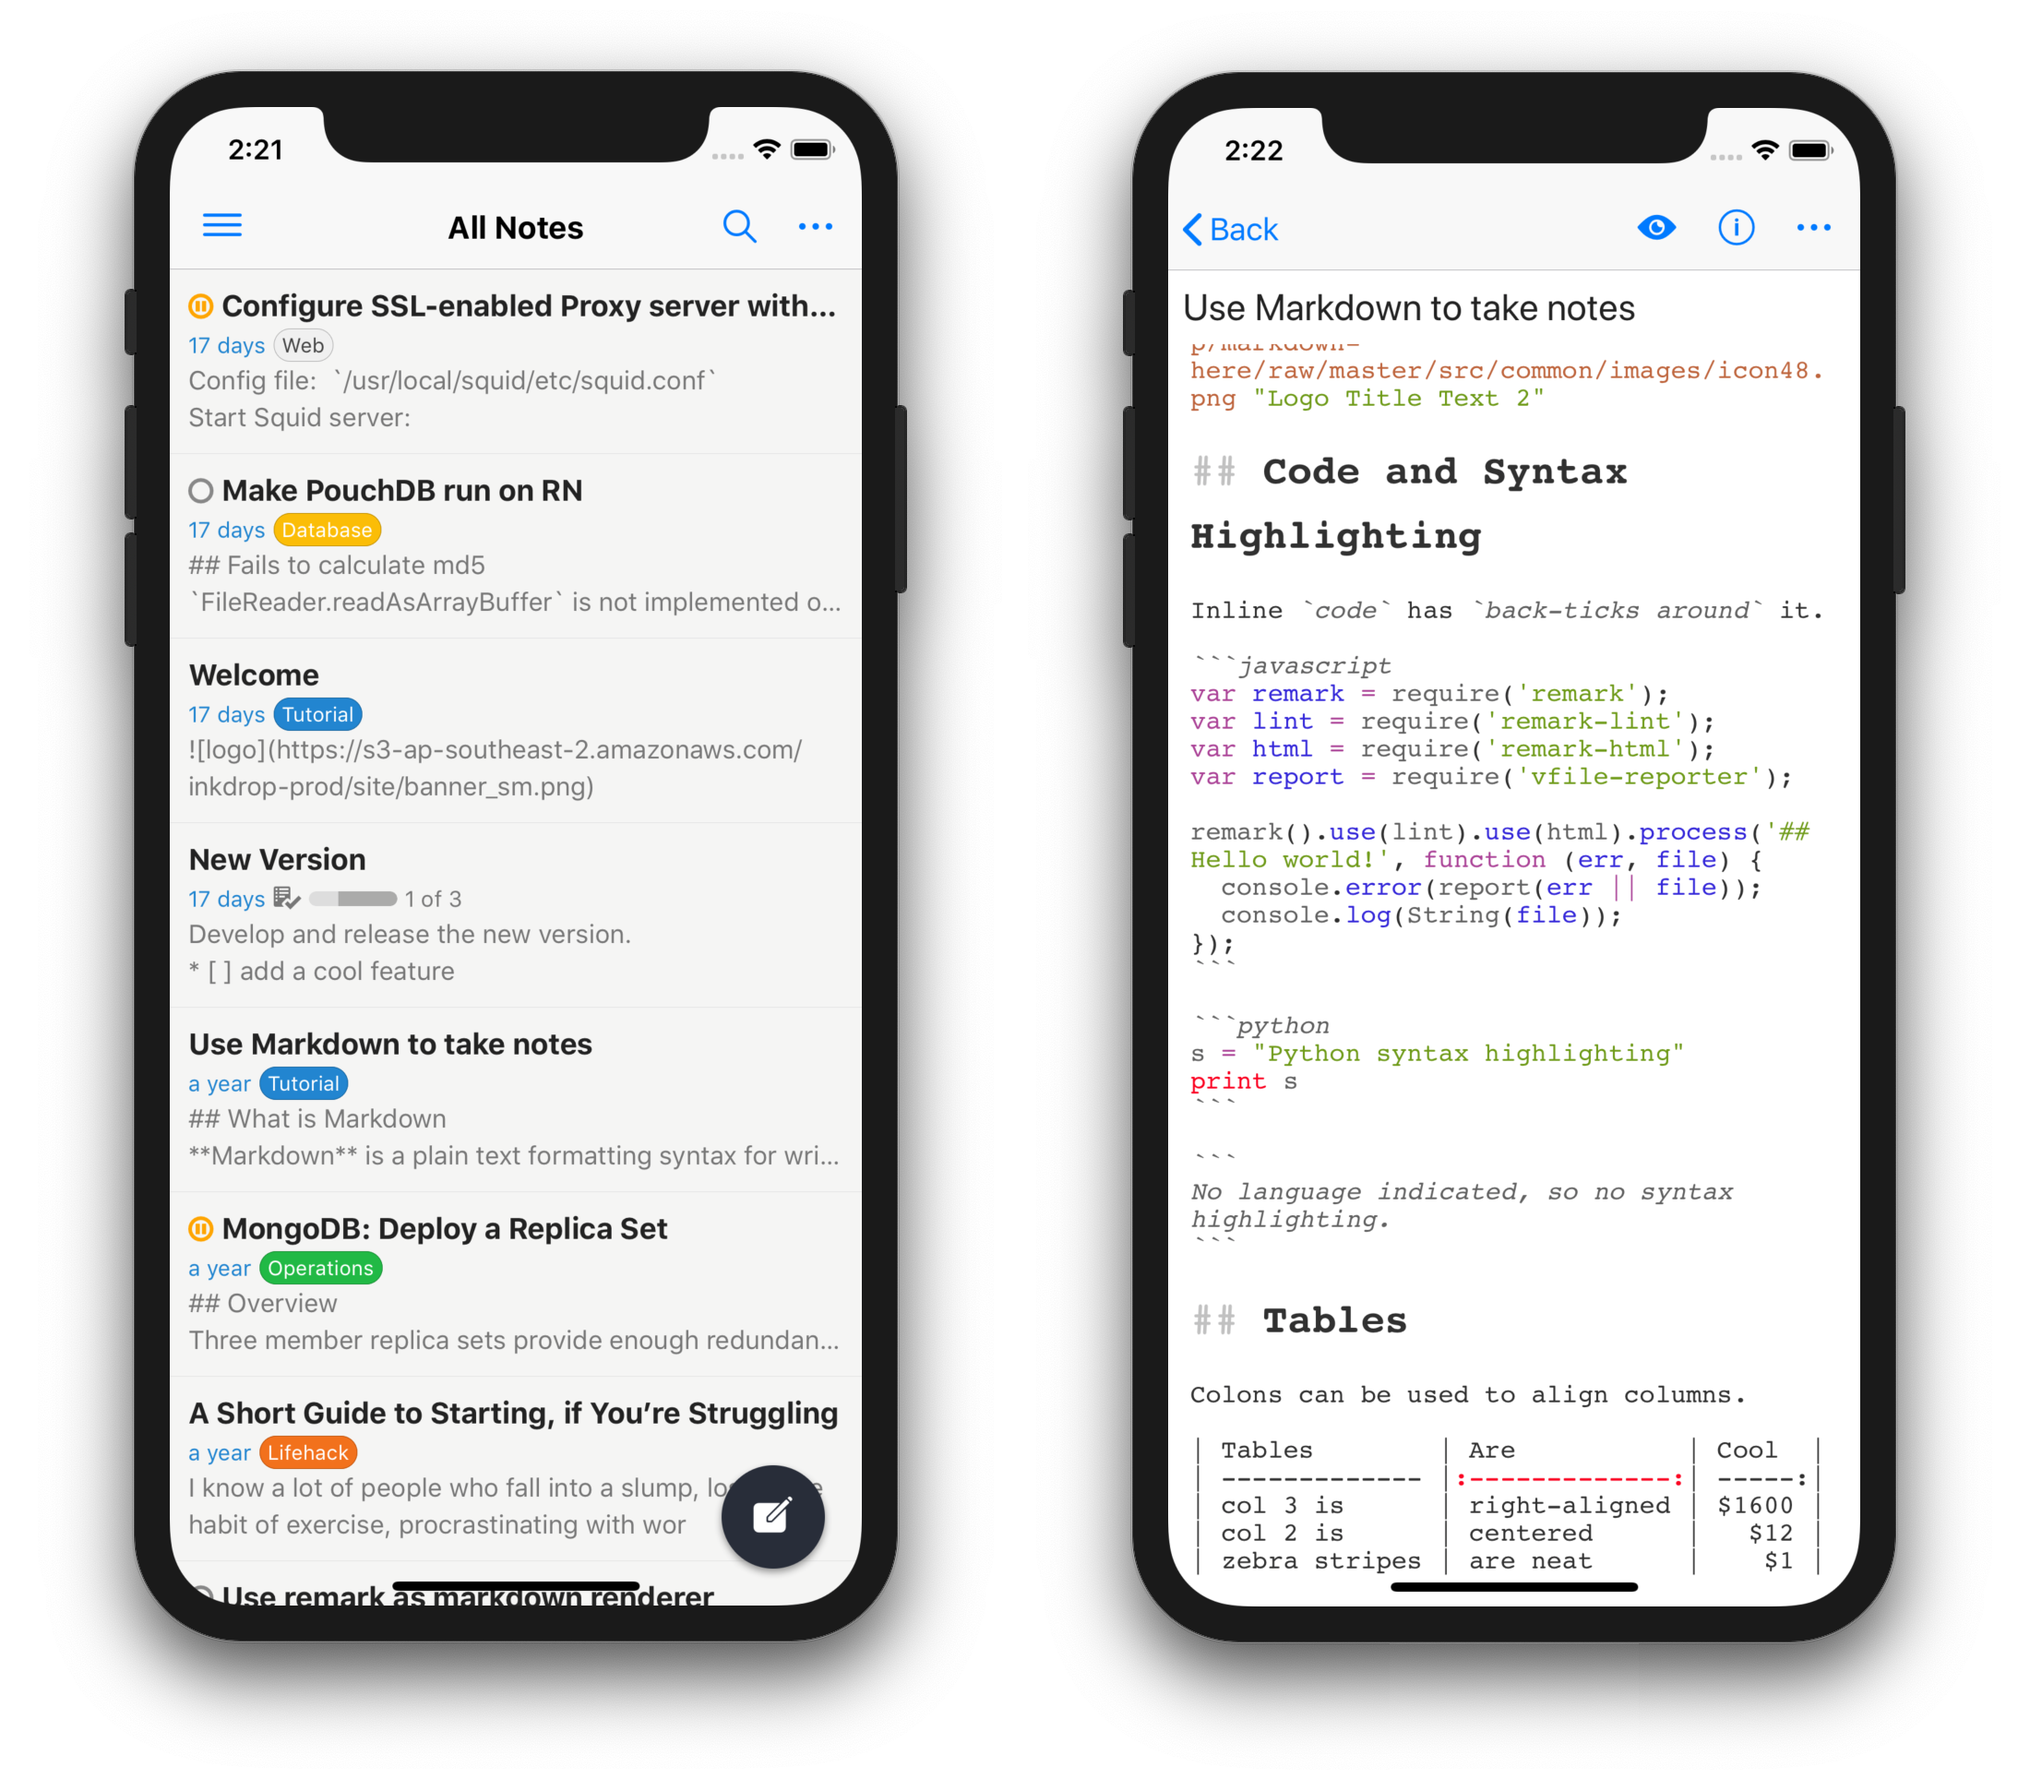
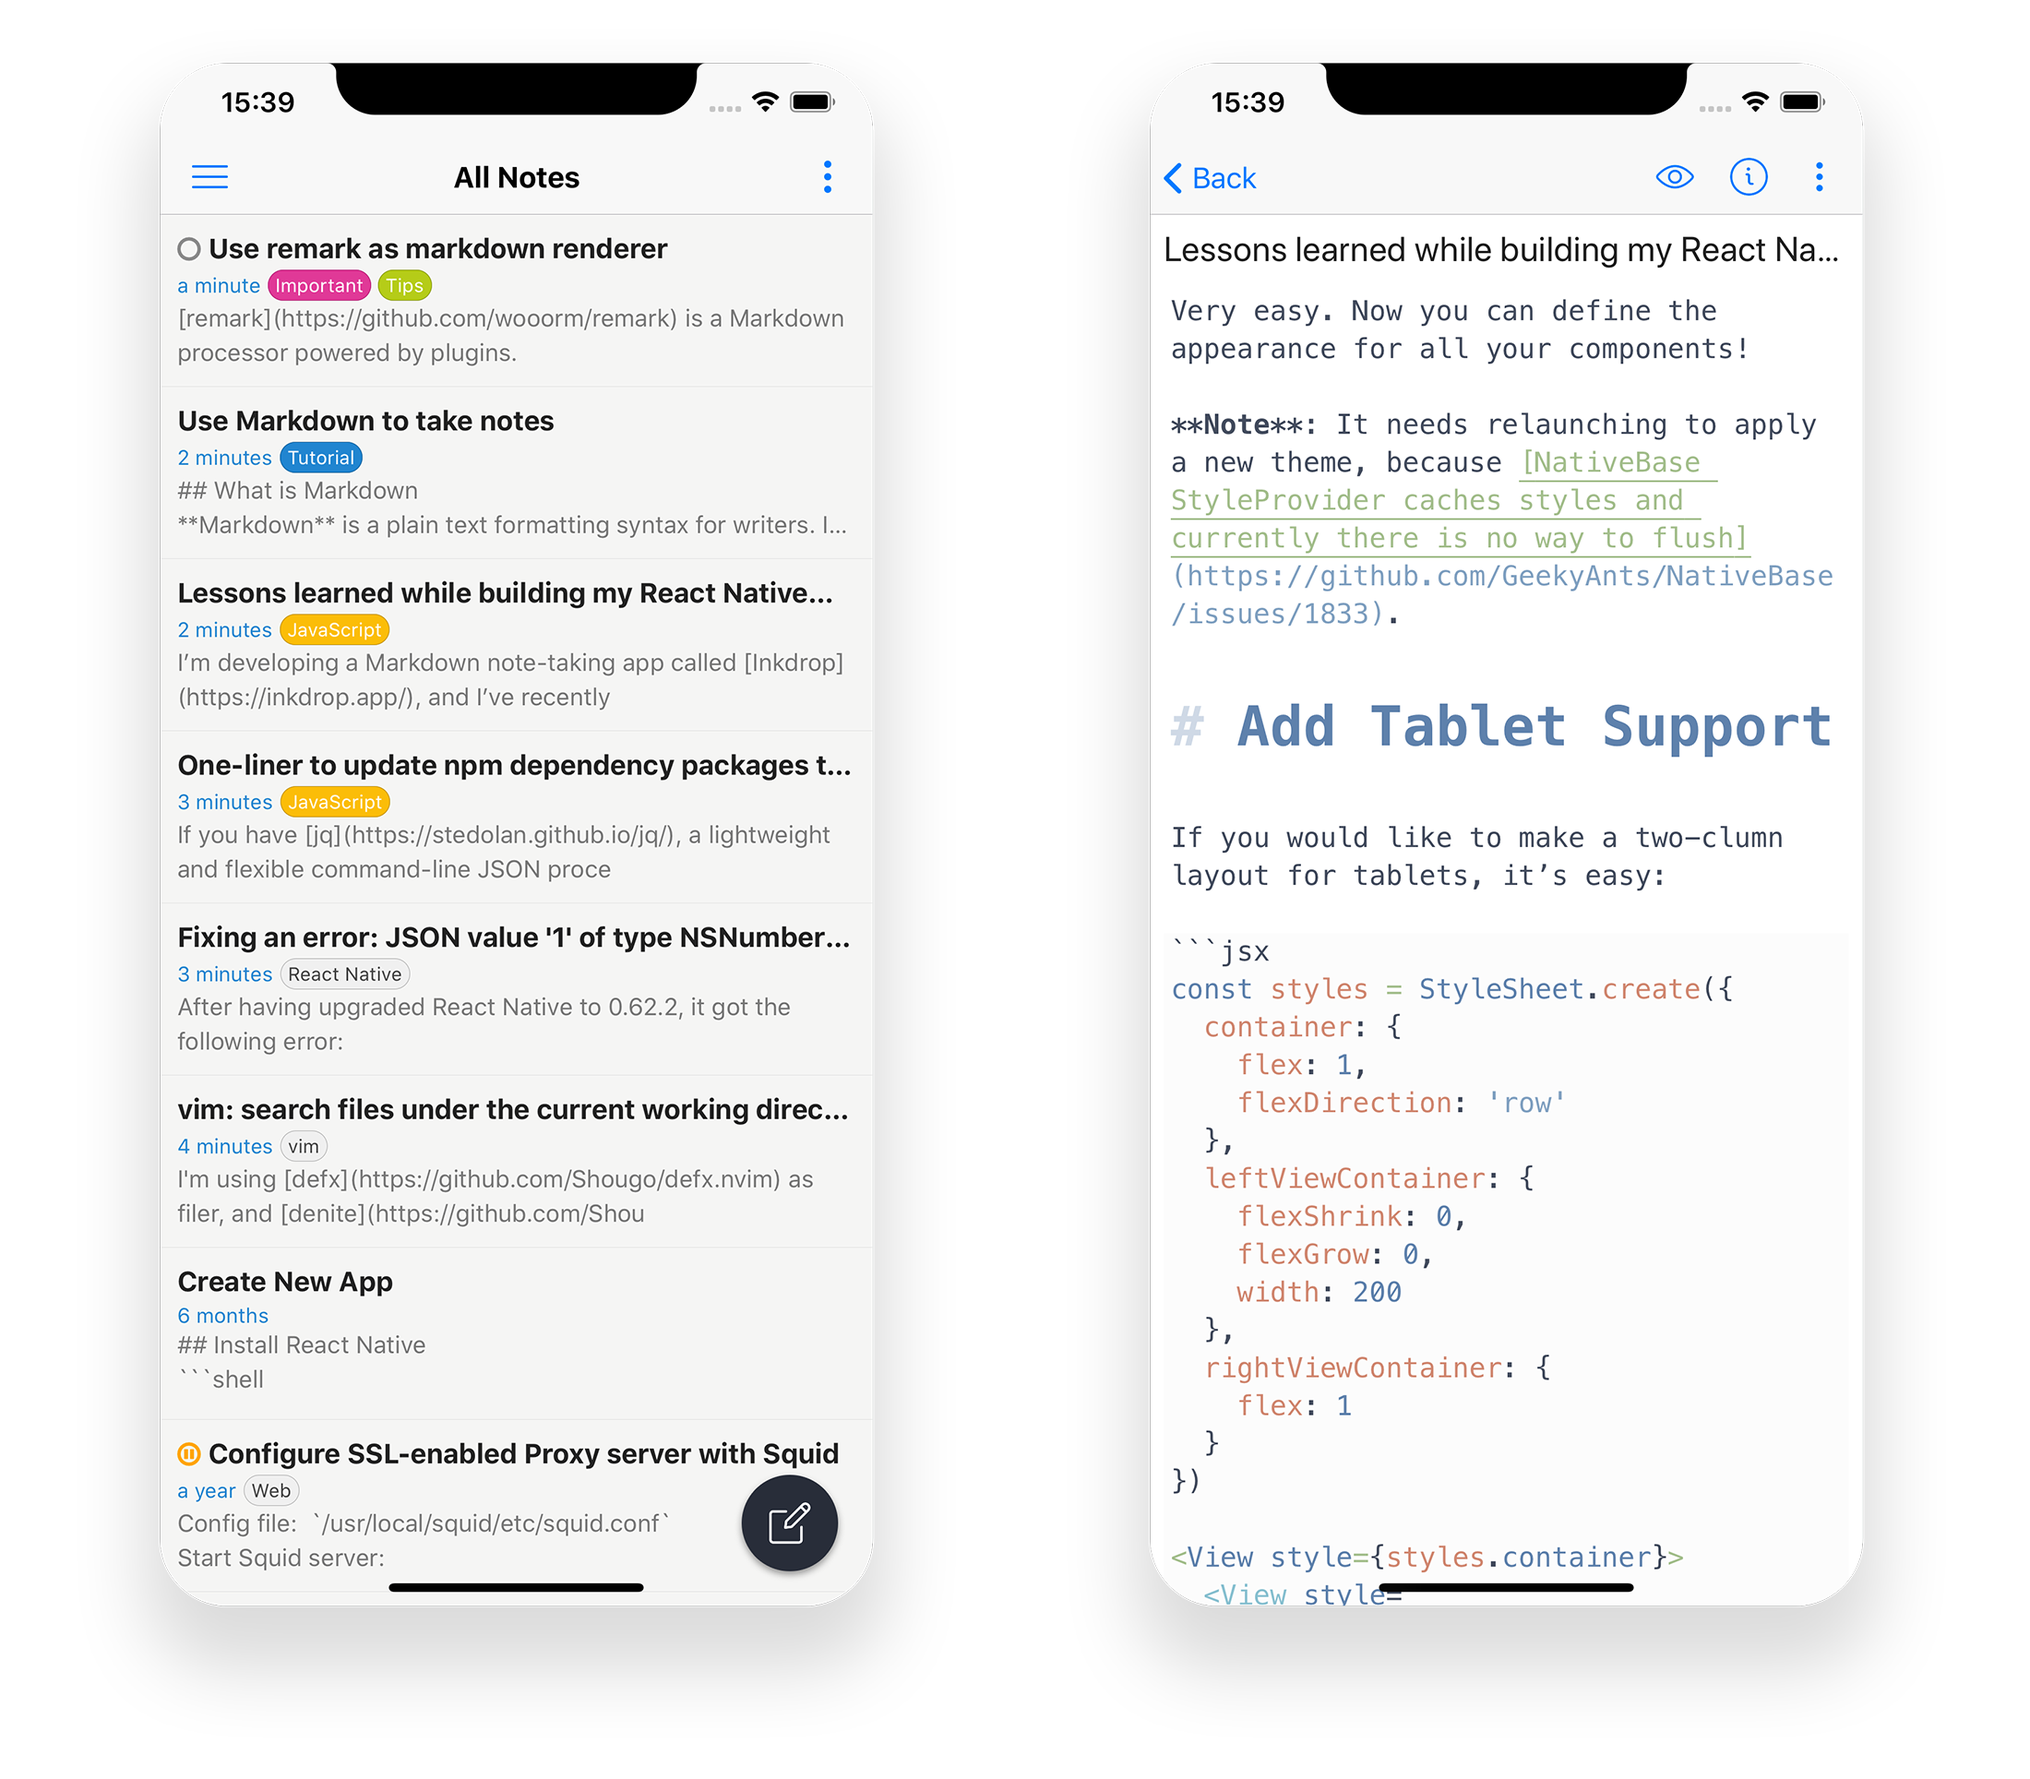
feat(masthead): update screenshots

diff --git a/src/components/top-masthead.js b/src/components/top-masthead.js
@@ -26,6 +26,7 @@ const TopMasthead = props => {
       query={query}
       render={data => (
         <Masthead className="top-masthead">
+          {console.log('data:', data)}
           <Container>
             <h1>
               <span className="avoid-wrap">Organizing your</span>&nbsp;
@@ -101,16 +102,28 @@ const TopMasthead = props => {
                         fluid={data.ss_linux_dark.childImageSharp.fluid}
                       />
                     )}
-                    {selectedPlatform === 'ios' && (
+                    {selectedPlatform === 'ios' && !darkThemeEnabled && (
                       <Img
                         className="screenshot screenshot-ios"
                         fluid={data.ss_ios.childImageSharp.fluid}
                       />
                     )}
-                    {selectedPlatform === 'android' && (
+                    {selectedPlatform === 'ios' && darkThemeEnabled && (
+                      <Img
+                        className="screenshot screenshot-ios"
+                        fluid={data.ss_ios_dark.childImageSharp.fluid}
+                      />
+                    )}
+                    {selectedPlatform === 'android' && !darkThemeEnabled && (
                       <Img
                         className="screenshot screenshot-android"
                         fluid={data.ss_android.childImageSharp.fluid}
+                      />
+                    )}
+                    {selectedPlatform === 'android' && darkThemeEnabled && (
+                      <Img
+                        className="screenshot screenshot-android"
+                        fluid={data.ss_android_dark.childImageSharp.fluid}
                       />
                     )}
                   </div>
@@ -183,7 +196,21 @@ const query = graphql`
         }
       }
     }
+    ss_ios_dark: file(relativePath: { eq: "ss-ios-02.png" }) {
+      childImageSharp {
+        fluid(maxWidth: 1024) {
+          ...GatsbyImageSharpFluid
+        }
+      }
+    }
     ss_android: file(relativePath: { eq: "ss-android-01.png" }) {
+      childImageSharp {
+        fluid(maxWidth: 1024) {
+          ...GatsbyImageSharpFluid
+        }
+      }
+    }
+    ss_android_dark: file(relativePath: { eq: "ss-android-02.png" }) {
       childImageSharp {
         fluid(maxWidth: 1024) {
           ...GatsbyImageSharpFluid
